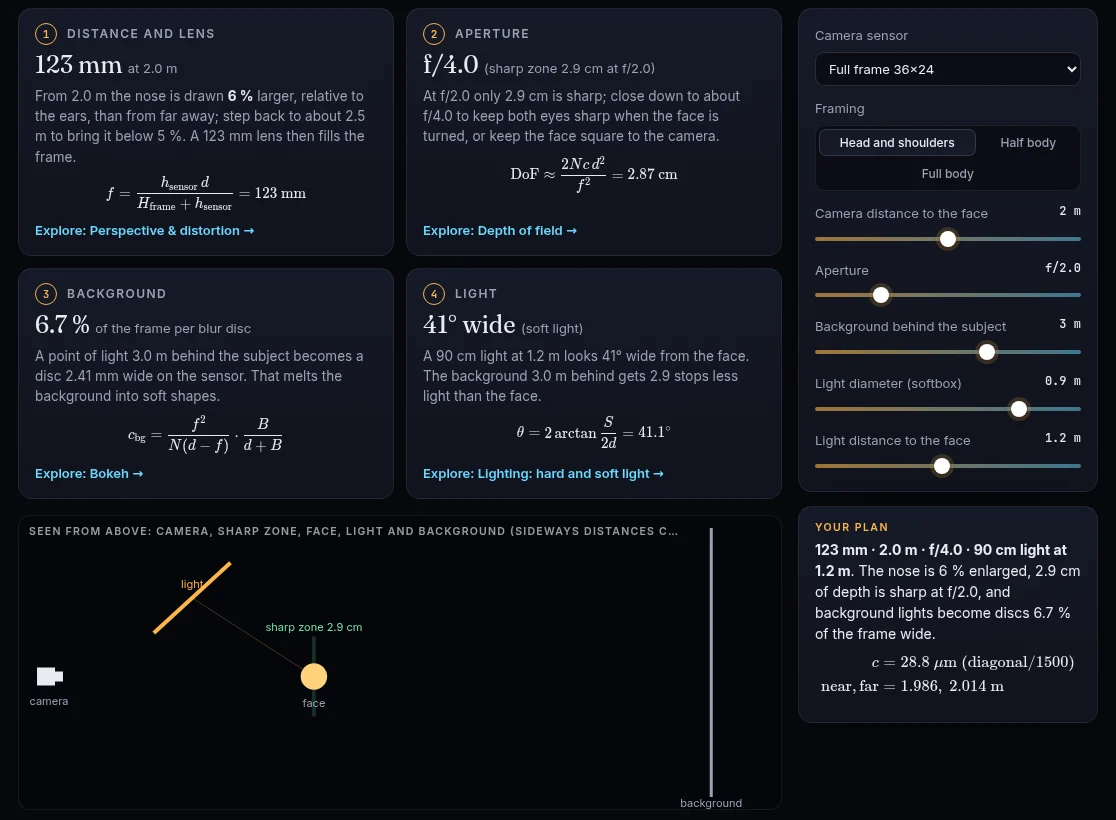
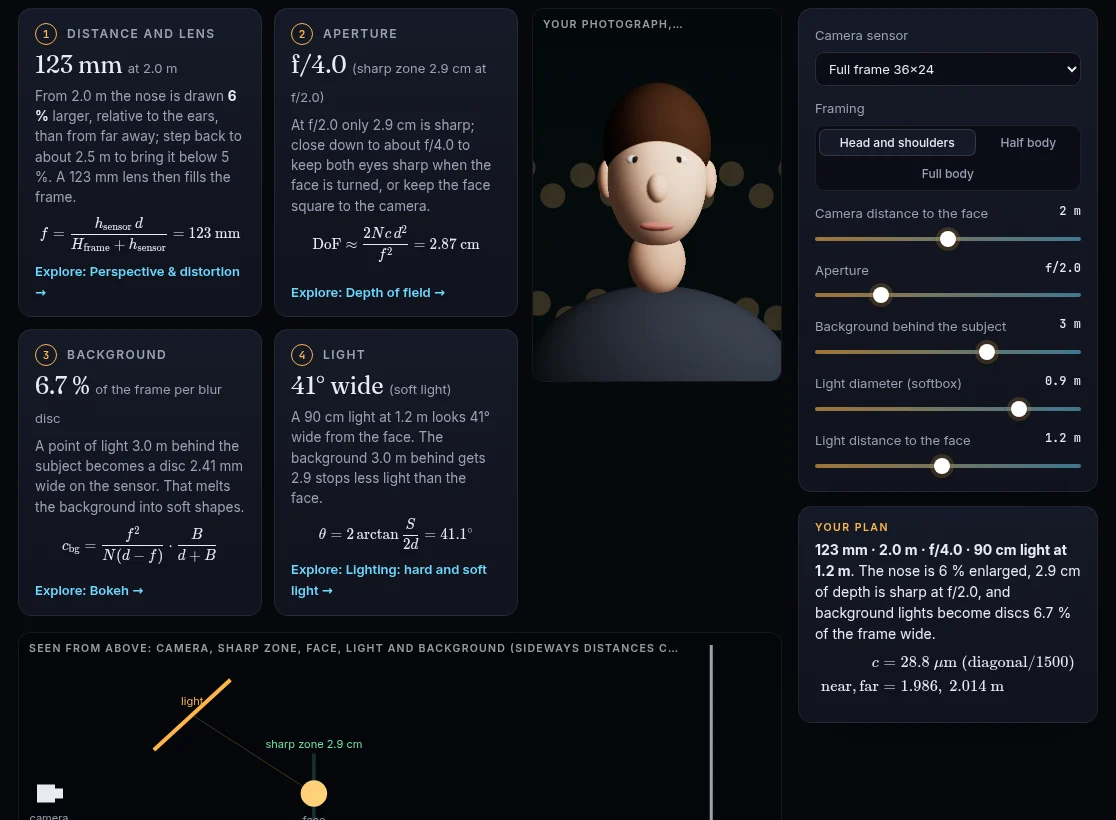
feat(mission-portrait): the photograph the plan gives (#278)
js/lib/portraitShot renders a stylised portrait from the plan: the face
(ellipsoids) seen from the planned distance with the planned focal
length; lit by a spherical light of the planned size and distance (exact
irradiance across the terminator); per-pixel depth of field over the
face; string lights on the wall as discs of exactly the planned blur.
Linear light through one tone curve; a quick picture, then 2×2 rays per
pixel once the controls settle (compute worker).

diff --git a/js/lib/portrait.js b/js/lib/portrait.js
@@ -28,3 +28,119 @@ export function plan({ sensor = 'ff', framing = 'head', d = 2, N = 2, B = 3, lig
   const ang = angularSize(light, ld), fo = falloff(lt, B), pen = shadowGeometry(light, ld, B, 0.1).pen;
   return { S, f, nose, natural: naturalDistance(0.05), near: near / 1000, far: far / 1000, dof, nFace, bg, bgShare, ang, fall: fo.stops, pen, c };
 }
+
+// ── The photograph the plan gives ──────────────────────────────────────────────────────────
+// A small portrait scene (head with nose, eyes, ears and hair, shoulders) seen from the planned
+// distance with the planned focal length, in portrait orientation; lit by a round light of the
+// planned size and distance, 40° to the side and 25° up; a wall B behind the face with a string of
+// small lights. Everything is computed in linear light and mapped to the screen by one tone curve.
+//   · Perspective: a pinhole camera at the face's height, d in front of it.
+//   · Light: the exact irradiance of a uniform spherical light of angular radius a on a surface whose
+//     normal is θ from the light's centre: cos θ where the whole light is visible, 0 where none is,
+//     and (cos θ + sin a)² / (4 sin a) across the terminator, so a large light gives a soft edge.
+//   · Depth of field: each pixel of the face is averaged over its own blur disc, from the thin-lens
+//     blur diameter at its depth; the background lights become discs of the planned size, each
+//     carrying the same light whatever its size.
+// No cast shadows, no subsurface scattering, no catchlights.
+// Ellipsoids: centre c, semi-axes r (m), linear reflectance col. Face towards −z (the camera).
+const HEAD = [
+  { c: [0, 1.6, 0], r: [0.078, 0.108, 0.098], col: [0.72, 0.44, 0.32] },        // head
+  { c: [0, 1.585, -0.096], r: [0.016, 0.022, 0.022], col: [0.7, 0.4, 0.29] },   // nose
+  { c: [0, 1.528, -0.07], r: [0.026, 0.008, 0.012], col: [0.45, 0.16, 0.13] },  // lips
+  { c: [-0.08, 1.6, 0.008], r: [0.014, 0.03, 0.02], col: [0.66, 0.36, 0.25] },  // ears
+  { c: [0.08, 1.6, 0.008], r: [0.014, 0.03, 0.02], col: [0.66, 0.36, 0.25] },
+  { c: [-0.032, 1.628, -0.078], r: [0.014, 0.008, 0.008], col: [0.75, 0.73, 0.7] }, // eye whites
+  { c: [0.032, 1.628, -0.078], r: [0.014, 0.008, 0.008], col: [0.75, 0.73, 0.7] },
+  { c: [-0.032, 1.628, -0.084], r: [0.0062, 0.0062, 0.004], col: [0.03, 0.02, 0.015] }, // irises
+  { c: [0.032, 1.628, -0.084], r: [0.0062, 0.0062, 0.004], col: [0.03, 0.02, 0.015] },
+  { c: [0, 1.655, 0.016], r: [0.086, 0.098, 0.1], col: [0.045, 0.022, 0.012] }, // hair (behind and above the face)
+  { c: [0, 1.47, 0.012], r: [0.045, 0.055, 0.045], col: [0.6, 0.34, 0.24] },     // neck
+  { c: [0, 1.25, 0.03], r: [0.23, 0.18, 0.13], col: [0.035, 0.04, 0.05] },        // shoulders and chest, dark clothes
+];
+
+// irradiance factor of a spherical light of angular radius a at angle θ (cos θ = mu) from its centre
+export const sphereLight = (mu, a) => { const s = Math.sin(a); return mu >= s ? mu : mu <= -s ? 0 : ((mu + s) * (mu + s)) / (4 * s); };
+
+function hitFace(o, d) {
+  let best = Infinity, col = null, n = null;
+  for (const e of HEAD) {
+    const [rx, ry, rz] = e.r, ox = (o[0] - e.c[0]) / rx, oy = (o[1] - e.c[1]) / ry, oz = (o[2] - e.c[2]) / rz, dx = d[0] / rx, dy = d[1] / ry, dz = d[2] / rz;
+    const A = dx * dx + dy * dy + dz * dz, Bq = ox * dx + oy * dy + oz * dz, C = ox * ox + oy * oy + oz * oz - 1, disc = Bq * Bq - A * C;
+    if (disc <= 0) continue;
+    const t = (-Bq - Math.sqrt(disc)) / A;
+    if (t > 0 && t < best) {
+      best = t; col = e.col;
+      const px = ox + t * dx, py = oy + t * dy, pz = oz + t * dz, nx = px / rx, ny = py / ry, nz = pz / rz, L = Math.hypot(nx, ny, nz);
+      n = [nx / L, ny / L, nz / L];
+    }
+  }
+  return col ? { t: best, col, n } : null;
+}
+
+// Fairy lights on the wall: positions in metres (x, y) on the wall plane, seeded and fixed.
+const BULBS = [0, 1].flatMap((row) => Array.from({ length: 30 }, (_, i) => { const u = i / 29; return [(u - 0.5) * 3.4 + row * 0.06, 1.9 - row * 0.5 - 0.3 * Math.sin(Math.PI * u) + 0.05 * Math.sin(i * 2.7 + row)]; }));
+
+// p = { W, H, sw, sh (sensor width, height in mm, height the long side), f (mm), N, d, B, light, ld,
+// framing height Hf (m), ss (rays per pixel along each axis, default 1) } → { rgb: Float32Array
+// W·H·3 (linear), rb (background disc radius in pixels of the W × H picture), W, H }
+export function portraitShot(p) {
+  const ss = p.ss || 1;
+  if (ss > 1) {
+    // computed at ss times the size and averaged down, so edges are anti-aliased
+    const big = portraitShot({ ...p, W: p.W * ss, H: p.H * ss, ss: 1, scale: ss }), { W, H } = p, out = new Float32Array(W * H * 3), BW = W * ss;
+    for (let j = 0; j < H; j++) for (let i = 0; i < W; i++) for (let c = 0; c < 3; c++) {
+      let v = 0;
+      for (let b = 0; b < ss; b++) for (let a = 0; a < ss; a++) v += big.rgb[((j * ss + b) * BW + i * ss + a) * 3 + c];
+      out[(j * W + i) * 3 + c] = v / (ss * ss);
+    }
+    return { rgb: out, rb: big.rb / ss, W, H };
+  }
+  const { W, H, sw, sh, f, N, d, B, light, ld, Hf } = p;
+  const yc = Math.min(1.6, 1.83 - Hf / 2 + 0.02), o = [0, yc, -d];
+  const az = (40 * Math.PI) / 180, el = (25 * Math.PI) / 180;
+  const Lc = [Math.sin(az) * Math.cos(el) * ld, 1.6 + Math.sin(el) * ld, -Math.cos(az) * Math.cos(el) * ld]; // light centre
+  const pxmm = W / sw;
+  const face = new Float32Array(W * H * 3), mask = new Uint8Array(W * H), rad = new Float32Array(W * H), out = new Float32Array(W * H * 3);
+  // the wall: a dark teal, lit by the same light from farther away
+  const wallE = (ld / Math.hypot(Lc[0], Lc[1] - 1.6, B - Lc[2])) ** 2;
+  for (let j = 0; j < H; j++) for (let i = 0; i < W; i++) {
+    const x = ((i + 0.5) / W - 0.5) * sw, y = (0.5 - (j + 0.5) / H) * sh, L = Math.hypot(x, y, f), dir = [x / L, y / L, f / L];
+    const k = j * W + i, hit = hitFace(o, dir);
+    const tw = (B - o[2]) / dir[2], wy = o[1] + tw * dir[1], vign = 0.75 + 0.25 * Math.exp(-((wy - 1.5) ** 2) / 0.8);
+    out[k * 3] = 0.03 * wallE * vign; out[k * 3 + 1] = 0.07 * wallE * vign; out[k * 3 + 2] = 0.075 * wallE * vign;
+    if (!hit) continue;
+    const P = [o[0] + hit.t * dir[0], o[1] + hit.t * dir[1], o[2] + hit.t * dir[2]];
+    const toL = [Lc[0] - P[0], Lc[1] - P[1], Lc[2] - P[2]], dist = Math.hypot(...toL);
+    const mu = (hit.n[0] * toL[0] + hit.n[1] * toL[1] + hit.n[2] * toL[2]) / dist, a = Math.asin(Math.min(1, light / 2 / dist));
+    const E = sphereLight(mu, a) * (ld / dist) ** 2 + 0.06; // plus a little fill from the room
+    for (let c = 0; c < 3; c++) face[k * 3 + c] = hit.col[c] * E;
+    mask[k] = 1;
+    rad[k] = Math.min(16, (blurDiameter(f, N, d * 1000, (d + P[2]) * 1000) * pxmm) / 2); // blur radius (px)
+  }
+  // background lights: discs of the planned blur diameter, each carrying the same light
+  const rb = Math.max(0.7, (blurDiameter(f, N, d * 1000, (d + B) * 1000) * pxmm) / 2), sc = p.scale || 1, area = Math.PI * (rb / sc) ** 2, gain = 14 / Math.max(area, 3); // area in pixels of the final picture
+  for (const [bx, by] of BULBS) {
+    const cx = W / 2 + ((f * bx) / (d + B)) * pxmm, cy = H / 2 - ((f * (by - yc)) / (d + B)) * pxmm;
+    for (let j = Math.max(0, Math.floor(cy - rb - 1)); j <= Math.min(H - 1, Math.ceil(cy + rb + 1)); j++) for (let i = Math.max(0, Math.floor(cx - rb - 1)); i <= Math.min(W - 1, Math.ceil(cx + rb + 1)); i++) {
+      const cover = Math.min(1, Math.max(0, rb + 0.5 - Math.hypot(i + 0.5 - cx, j + 0.5 - cy))), k = j * W + i;
+      out[k * 3] += cover * gain * 1.0; out[k * 3 + 1] += cover * gain * 0.72; out[k * 3 + 2] += cover * gain * 0.4;
+    }
+  }
+  // the face over the background, each face pixel averaged over its own blur disc (face pixels only)
+  for (let j = 0; j < H; j++) for (let i = 0; i < W; i++) {
+    const k = j * W + i;
+    if (!mask[k]) continue;
+    const r = rad[k], R = Math.ceil(r);
+    let s0 = 0, s1 = 0, s2 = 0, n = 0;
+    for (let v = -R; v <= R; v++) for (let u = -R; u <= R; u++) {
+      if (u * u + v * v > r * r + 0.25) continue;
+      const ii = i + u, jj = j + v;
+      if (ii < 0 || jj < 0 || ii >= W || jj >= H) continue;
+      const q = jj * W + ii;
+      if (!mask[q]) continue;
+      s0 += face[q * 3]; s1 += face[q * 3 + 1]; s2 += face[q * 3 + 2]; n++;
+    }
+    out[k * 3] = s0 / n; out[k * 3 + 1] = s1 / n; out[k * 3 + 2] = s2 / n;
+  }
+  return { rgb: out, rb, W, H };
+}

diff --git a/js/modules/mission-portrait.js b/js/modules/mission-portrait.js
@@ -5,6 +5,9 @@ import { MODULES } from '../app.js';
 import { SENSORS } from '../lib/sensors.js';
 import { plan, FRAMINGS } from '../lib/portrait.js';
 import { t } from '../lib/i18n.js';
+import { latest } from '../lib/compute.js';
+import { paint, bilinear, encode, keyOf } from '../lib/pixels.js';
+import { aces } from '../lib/flarescene.js';
 
 const titleOf = (id) => MODULES.find((m) => m.id === id)?.title || id;
 const cm = (m) => (m < 1 ? (m * 100).toFixed(m < 0.1 ? 1 : 0) + ' cm' : m.toFixed(2) + ' m');
@@ -35,7 +38,34 @@ export default function mount(root, meta) {
     missionStep(4, 'Light', 'lighting', titleOf('lighting')),
   ];
   const view = stage({ aspect: 2.6, label: 'Seen from above: camera, sharp zone, face, light and background (sideways distances compressed)', draw: drawTop, minH: 200 });
-  root.append(lab([h('div.msteps', {}, ...steps.map((s) => s.el)), view.el], [h('div.card', {}, ctl.el), calc.el]));
+  const shot = stage({ aspect: 2 / 3, label: 'Your photograph, computed from the plan', draw: drawShot, minH: 300, maxH: 620 });
+  root.append(lab([h('div.mission-shot', {}, h('div.msteps', {}, ...steps.map((s) => s.el)), shot.el), view.el], [h('div.card', {}, ctl.el), calc.el]));
+
+  // The photograph the plan gives (js/lib/portrait.js), rendered in the compute worker at about the
+  // canvas's resolution and drawn through the image pipeline.
+  const shotJob = latest('portrait');
+  let SHOT = null;
+  // a quick picture at once, the full-resolution one with 2 × 2 rays per pixel once the controls settle
+  let refineTimer = 0;
+  function renderShot() {
+    const st = P.st, S = P.S, W = Math.max(120, Math.min(360, Math.round(shot.w * shot.dpr))), H = Math.round(W * 1.5);
+    const args = { sw: Math.min(S.w, S.h), sh: Math.max(S.w, S.h), f: P.f * 1000, N: st.N, d: st.d, B: st.B, light: st.light, ld: st.ld, Hf: FRAMINGS[st.framing][1] };
+    clearTimeout(refineTimer);
+    shotJob('portraitShot', { ...args, W: Math.round(W / 2), H: Math.round(H / 2) }).then((r) => { SHOT = r; shot.redraw(); }, () => {});
+    refineTimer = setTimeout(() => shotJob('portraitShot', { ...args, W, H, ss: 2 }).then((r) => { SHOT = r; shot.redraw(); }, () => {}), 400);
+  }
+  function drawShot(ctx, w, hh) {
+    ctx.fillStyle = '#05060a'; ctx.fillRect(0, 0, w, hh);
+    if (!SHOT) return;
+    const { rgb, W, H } = SHOT, sc = Math.min(w / W, hh / H), dw = W * sc, dh = H * sc, R = new Float32Array(W * H), G = new Float32Array(W * H), B = new Float32Array(W * H);
+    if (!SHOT.planes) { for (let k = 0; k < W * H; k++) { R[k] = rgb[k * 3]; G[k] = rgb[k * 3 + 1]; B[k] = rgb[k * 3 + 2]; } SHOT.planes = [R, G, B]; }
+    const [r, g, b] = SHOT.planes;
+    paint(shot, { x: (w - dw) / 2, y: (hh - dh) / 2, w: dw, h: dh }, (u, v, o) => {
+      const x = u * W - 0.5, y = v * H - 0.5;
+      o[0] = encode(aces(bilinear(r, W, H, x, y) * 1.4)); o[1] = encode(aces(bilinear(g, W, H, x, y) * 1.4)); o[2] = encode(aces(bilinear(b, W, H, x, y) * 1.4));
+    }, keyOf(SHOT));
+  }
+  shot.resized = () => P && renderShot();
 
   let P = null;
   function update() {
@@ -72,6 +102,7 @@ export default function mount(root, meta) {
     \text{near}, \text{far} &= ${texNum(r.near, 4)},\ ${texNum(r.far, 4)}\ \text{m}
     \end{aligned}`);
     view.redraw();
+    renderShot();
   }
 
   // Top view (not to scale across): camera on the left, the face, the background, and the light.
@@ -122,5 +153,5 @@ export default function mount(root, meta) {
     'F. Hunter, S. Biver and P. Fuqua, <i>Light: Science and Magic</i>, 5th ed., Routledge (2015): portrait lighting.',
     'H. M. Merklinger, <i>The INs and OUTs of FOCUS</i> (1992): background blur as a share of the frame.',
   ]));
-  return () => [view].forEach((s) => s.destroy());
+  return () => { clearTimeout(refineTimer); SHOT = null; [view, shot].forEach((s) => s.destroy()); };
 }

diff --git a/js/lib/tasks.js b/js/lib/tasks.js
@@ -40,6 +40,7 @@ import { shadowLab } from './starshade.js';
 import { fieldPSFs } from './fieldpsf.js';
 import { makeLight, renderScene } from './lighting.js';
 import { runAF } from './autofocus.js';
+import { portraitShot } from './portrait.js';
 
 // Polychromatic PSF of an aperture with optional defocus, plus profile, encircled energy and Strehl.
 // p = { spec, n, Dpx, lambdas (nm), ref (nm), defocus (waves RMS at ref), falseColor }
@@ -676,4 +677,6 @@ function bhRows(p) { BH_TABLE ||= orbitTable(); const r = diskImage({ ...p, tabl
 
 function benchRays(p) { const r = benchPhotons(p); return { result: r, transfer: [r.X.buffer, r.Y.buffer, r.Z.buffer] }; }
 
-export const TASKS = { benchRays, bhRows, waveInit, waveStep, haloRays, dropMie, psfLab, zernikeLab, otfCurves, coronagraph, segPhasing, lensPSF, lensMTF, optimiseLens, tolerance, flareGhosts, flareScene3d, bokehTraced, bokehScene3d, defocusPSF, polarLake, macroRuler, aoLoop, pyramid, panorama, hdr, shake, eye, film, aperture, lucky, starshade, fieldPSF, lighting, autofocus, tiltScene: tiltSceneTask, blurLevels, tiltStore, tiltBlend: tiltBlendTask, shiftRows: shiftTask, dofGround, diskBlur: diskBlurTask, projectionRows: projectionTask, lensRows: lensRowsTask, lensSide, perspectiveRows: perspectiveTask, seeingReset, seeingStep, shimmerMaps, camBokeh, spectralBand };
+function portraitShotTask(p) { const r = portraitShot(p); return { result: r, transfer: [r.rgb.buffer] }; }
+
+export const TASKS = { portraitShot: portraitShotTask, benchRays, bhRows, waveInit, waveStep, haloRays, dropMie, psfLab, zernikeLab, otfCurves, coronagraph, segPhasing, lensPSF, lensMTF, optimiseLens, tolerance, flareGhosts, flareScene3d, bokehTraced, bokehScene3d, defocusPSF, polarLake, macroRuler, aoLoop, pyramid, panorama, hdr, shake, eye, film, aperture, lucky, starshade, fieldPSF, lighting, autofocus, tiltScene: tiltSceneTask, blurLevels, tiltStore, tiltBlend: tiltBlendTask, shiftRows: shiftTask, dofGround, diskBlur: diskBlurTask, projectionRows: projectionTask, lensRows: lensRowsTask, lensSide, perspectiveRows: perspectiveTask, seeingReset, seeingStep, shimmerMaps, camBokeh, spectralBand };

diff --git a/css/style.css b/css/style.css
@@ -460,6 +460,9 @@ button.term:hover, button.term:focus-visible { color: var(--accent-2); }
 @media (max-width: 1100px) { .path { grid-template-columns: minmax(0, 1fr); } }
 
 /* Missions: steps with the answer first */
+.mission-shot { display: grid; grid-template-columns: minmax(0, 1fr) minmax(220px, 0.5fr); gap: 14px; align-items: start; }
+.mission-shot > .msteps { grid-template-columns: repeat(auto-fill, minmax(240px, 1fr)); }
+@media (max-width: 1100px) { .mission-shot { grid-template-columns: minmax(0, 1fr); } .mission-shot > figure.stage { max-width: 420px; margin: 0 auto; width: 100%; } }
 .msteps { display: grid; grid-template-columns: repeat(auto-fill, minmax(280px, 1fr)); gap: 12px; }
 .mstep { border: 1px solid var(--line); border-radius: var(--radius); background: linear-gradient(180deg, var(--panel-2), var(--panel)); padding: 14px 16px; display: flex; flex-direction: column; gap: 6px; }
 .mstep-head { display: flex; align-items: center; gap: 10px; }

diff --git a/js/locales/es.js b/js/locales/es.js
@@ -1,6 +1,7 @@
 // Spanish interface strings, keyed by the English text (see js/lib/i18n.js).
 // test/i18n.test.mjs checks that every key is used and every interface string is here.
 export default {
+  "Your photograph, computed from the plan": "Tu foto, calculada a partir del plan",
   "seen once": "visto una vez",
   "seen {n} times": "visto {n} veces",
   "{d} m · blur {c} µm{ok}": "{d} m · desenfoque {c} µm{ok}",

diff --git a/js/locales/de.js b/js/locales/de.js
@@ -1,6 +1,7 @@
 // German interface strings, keyed by the English text (see js/lib/i18n.js).
 // test/i18n.test.mjs checks that every key is used and every interface string is here.
 export default {
+  "Your photograph, computed from the plan": "Ihr Foto, aus dem Plan berechnet",
   "seen once": "einmal zu sehen",
   "seen {n} times": "{n}-mal zu sehen",
   "{d} m · blur {c} µm{ok}": "{d} m · Unschärfe {c} µm{ok}",

diff --git a/js/locales/fr.js b/js/locales/fr.js
@@ -1,6 +1,7 @@
 // French interface strings, keyed by the English text (see js/lib/i18n.js).
 // test/i18n.test.mjs checks that every key is used and every interface string is here.
 export default {
+  "Your photograph, computed from the plan": "Votre photo, calculée à partir du plan",
   "seen once": "vu une fois",
   "seen {n} times": "vu {n} fois",
   "{d} m · blur {c} µm{ok}": "{d} m · flou {c} µm{ok}",

diff --git a/README.md b/README.md
@@ -133,7 +133,7 @@ The longest exposure before stars trail (sidereal drift f ω cos δ against two 
 The Nyquist focal ratio for your pixels, frames short enough to freeze the seeing, the capture length before Jupiter's rotation blurs detail, Fried's share of lucky frames, and when atmospheric dispersion calls for a corrector.
 
 **Portrait session** · `#/mission-portrait`<br>
-<img src="docs/screenshots/mission-portrait.webp" alt="Portrait mission: distance and lens, aperture, background blur and light, with a top view of the set" width="70%">
+<img src="docs/screenshots/mission-portrait.webp" alt="Portrait mission: distance and lens, aperture, background blur and light, the photograph the plan gives, and a top view of the set" width="70%">
 
 Where to stand and which lens fills the frame without enlarging the nose, the widest aperture that keeps both eyes sharp, how much the background blurs, and how big and close the light should be.
 
@@ -938,7 +938,7 @@ Optica_Viva/
 │   │   ├── misconceptions.js  Predict-then-reveal questions on common misconceptions
 │   │   ├── milkyway.js        Milky Way mission: trailing limit, ISO invariance, frames to stack
 │   │   ├── path.js            The home page's "Start here" path
-│   │   ├── portrait.js        Portrait mission: perspective, focal length, depth of field, background blur, light
+│   │   ├── portrait.js        Portrait mission: perspective, focal length, depth of field, background blur, light, and the photograph the plan gives
 │   │   ├── random.js          Seeded random numbers for every simulation (mulberry32, Box–Muller, Poisson)
 │   │   ├── raytrace.js        Exact ray tracer (spheres + even aspheres), paraxial analysis, ray aiming, OPD
 │   │   ├── optimise.js        Damped-least-squares (Levenberg–Marquardt) lens optimiser
@@ -1119,6 +1119,7 @@ The numerical core was checked against published or analytically known values. E
 | Mie, 10 µm droplets: first corona minimum | 1.83° | Fraunhofer 1.22λ/(2a) = 1.92° |
 | FDTD wavelength in vacuum and in glass (n = 1.5), 16 cells per λ | 16.02, 10.56 cells | 16, 10.67 (numerical dispersion below 1.5 %) |
 | FDTD double slit against the Huygens–Fresnel integral | RMS difference below 0.12, central fringe within 3 cells | 2-D Huygens–Fresnel |
+| Portrait photograph: irradiance of a spherical light of angular radius a at the geometric terminator; background blur disc | sin a / 4; disc = planned c_bg | (cos θ + sin a)²/(4 sin a) at cos θ = 0; diameter 2r/px·mm = c_bg |
 | Black hole: capture threshold, weak-field deflection at b = 100M | 3√3 M; 0.04122 rad | 3√3 M; 4/b + 15π/4b² + 128/3b³ = 0.04122 |
 | Shadow of M87* (6.5 × 10⁹ M☉, 16.8 Mpc) | 39.7 µas | EHT ring 42 ± 3 µas (the ring lies just outside the shadow) |
 | Autofocus defocus blur, 50 mm f/2 at 2 m, subject 3 m; 200 mm f/2, 0.6 m ↔ 10 m | 213.675 µm; 31.973 mm and 47.000 mm, half-pupil shift 0.424 A Δv/v | Thin-lens similar triangles, b = A\|Δv\|/v(u), and a ray trace through both pupil halves |

diff --git a/ROADMAP.md b/ROADMAP.md
@@ -78,7 +78,7 @@ flowchart LR
 | Laboratories | 64 pages, including 9 missions and the reference pages | see Planned milestones |
 | Catalogue entries | 239, each with details and a worked example | link every new lab |
 | Lens prescriptions | 15: camera lenses from the Petzval to the Biogon, Hubble, a Cassegrain and a three-mirror anastigmat; aspheres, mirrors, model glasses and file import | (none planned) |
-| Automated tests | 482 tests (physics, blur, lens I/O, ghosts, bokeh, polarisation, macro, colour, AO) + link check + browser smoke test in CI | more coverage per new lab |
+| Automated tests | 484 tests (physics, blur, lens I/O, ghosts, bokeh, polarisation, macro, colour, AO) + link check + browser smoke test in CI | more coverage per new lab |
 | Deployment | GitHub Pages, deployed from `main` by CI | (none) |
 
 ---
@@ -591,6 +591,7 @@ Candidates, in order of how much the third dimension adds:
 Ideas worth keeping but not yet scheduled:
 
 - *(from v1.2)* **WebGPU compute path** for FFTs, phase screens and per-pixel ray casting, with a mandatory CPU fallback; waits until the Raspberry Pi 4 or the CI runners expose a WebGPU adapter to test it on.
+- *(from v1.42)* **A picture of the result on the other missions** (the portrait session has one): the Milky Way frame with trails and noise, Jupiter through the seeing, the eclipse exposure set, the satellite's ground image at its GSD.
 - *(from v1.36)* **Soft shadows and tighter framing in the 3-D views**: the scenes have no ground to cast onto, and shadow maps are heavy on the Raspberry Pi; framing would fit the camera to the meshes rather than to every ray.
 - *(from v1.36)* **Wide-gamut output** (Display P3 canvases) for spectral colours: needs the colours kept outside sRGB through the computation (the PSF clips negative components today) and a P3 screen to check it on; gains nothing on sRGB screens.
 - *(from v1.3)* Traced relative illumination across the field (real-ray pupil area and cos⁴ projection) in the ray tracer.

diff --git a/CHANGELOG.md b/CHANGELOG.md
@@ -6,6 +6,9 @@ The format follows [Keep a Changelog](https://keepachangelog.com/en/1.1.0/), and
 
 ## [Unreleased]
 
+### Added
+- **Portrait session: the photograph your plan gives.** Beside the plan, a portrait computed from it: the face seen from the planned distance with the planned focal length (closer means a larger nose), lit by a round light of the planned size and distance (the exact irradiance of a spherical source, so a small light gives a hard edge across the face and a large one a soft one), each part of the face blurred by its own depth of field, and the string lights on the wall behind turned into discs of exactly the planned size. Rendered in the compute worker: a quick picture at once, then one with 2 × 2 rays per pixel once the controls settle.
+
 ## [1.42.0] - 2026-11-11
 
 ### Changed
